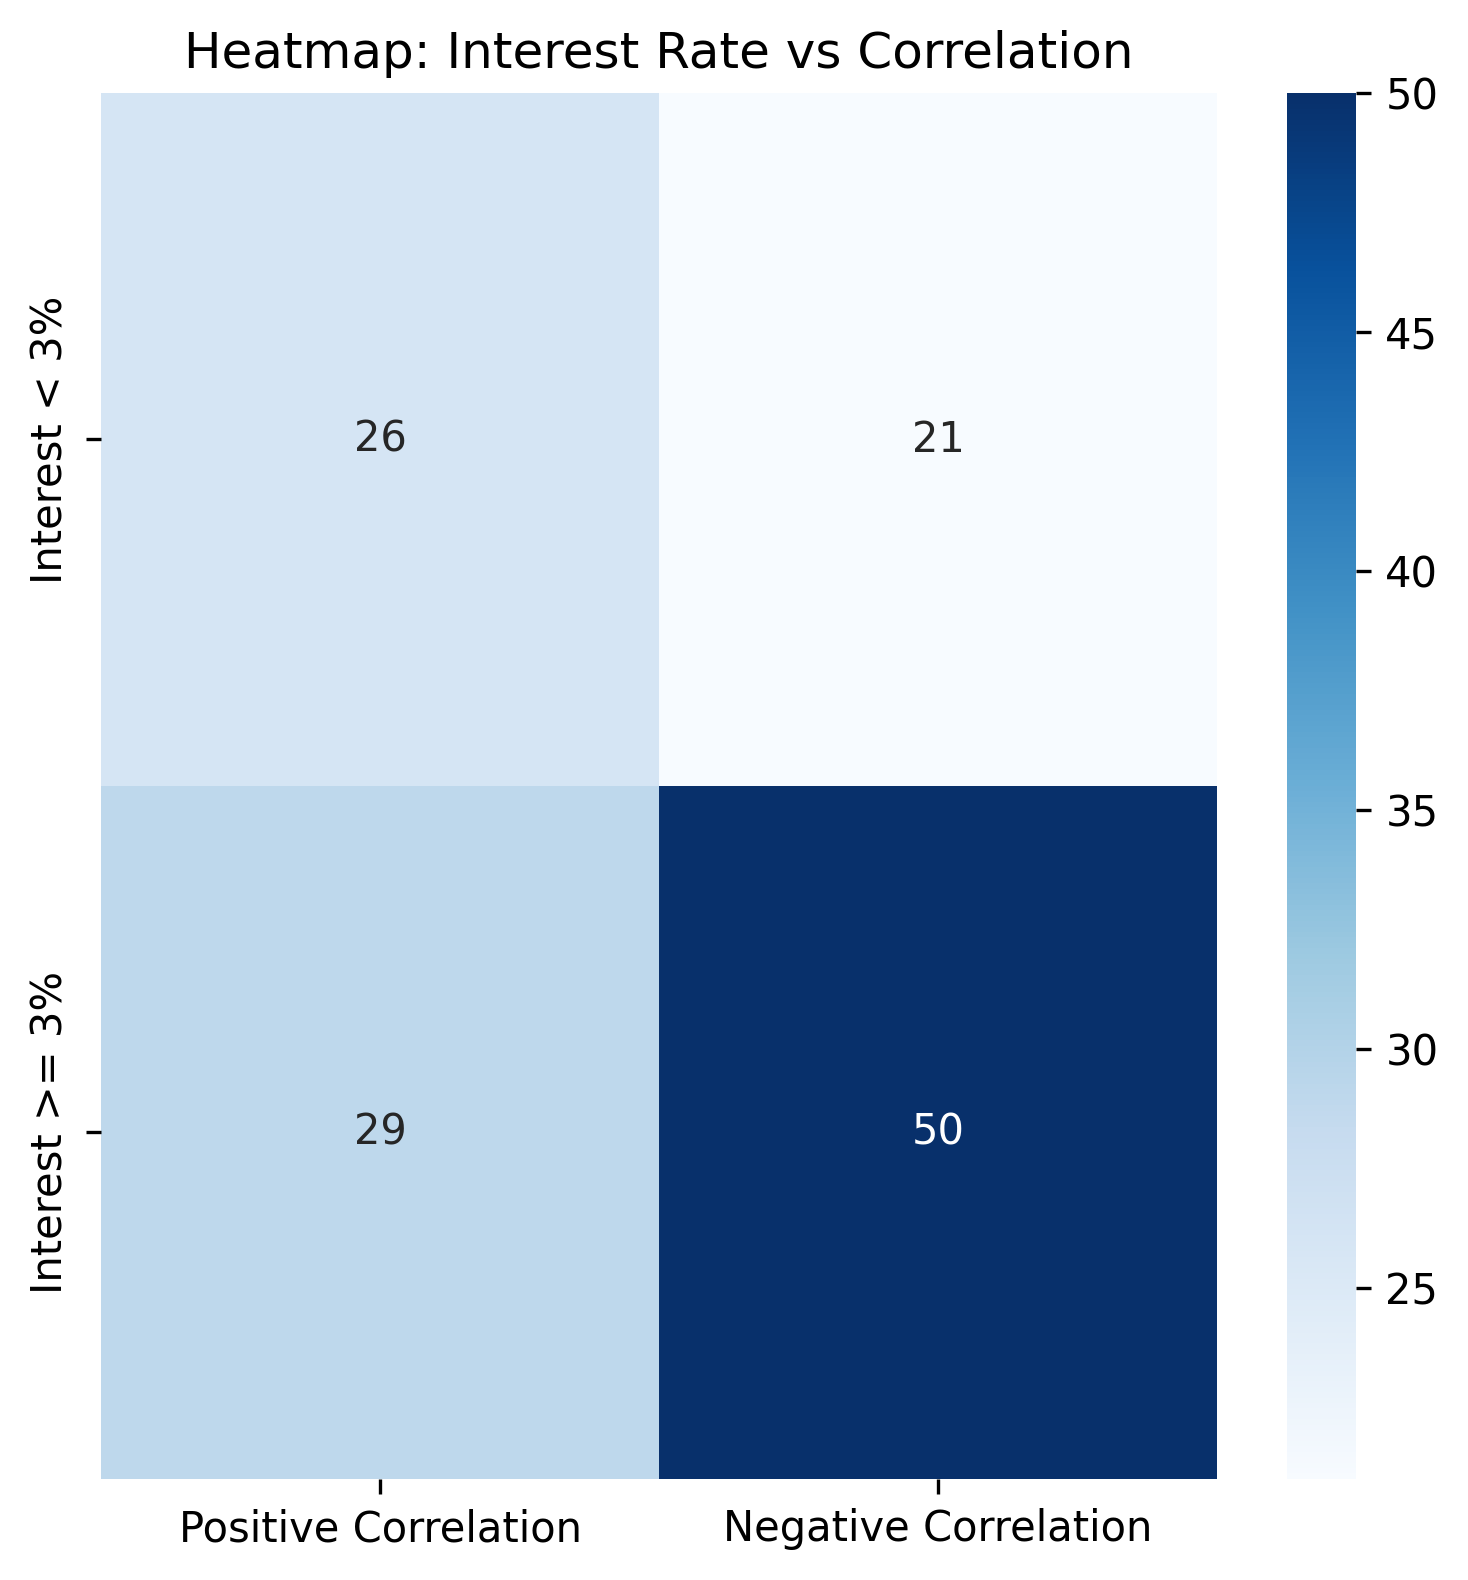
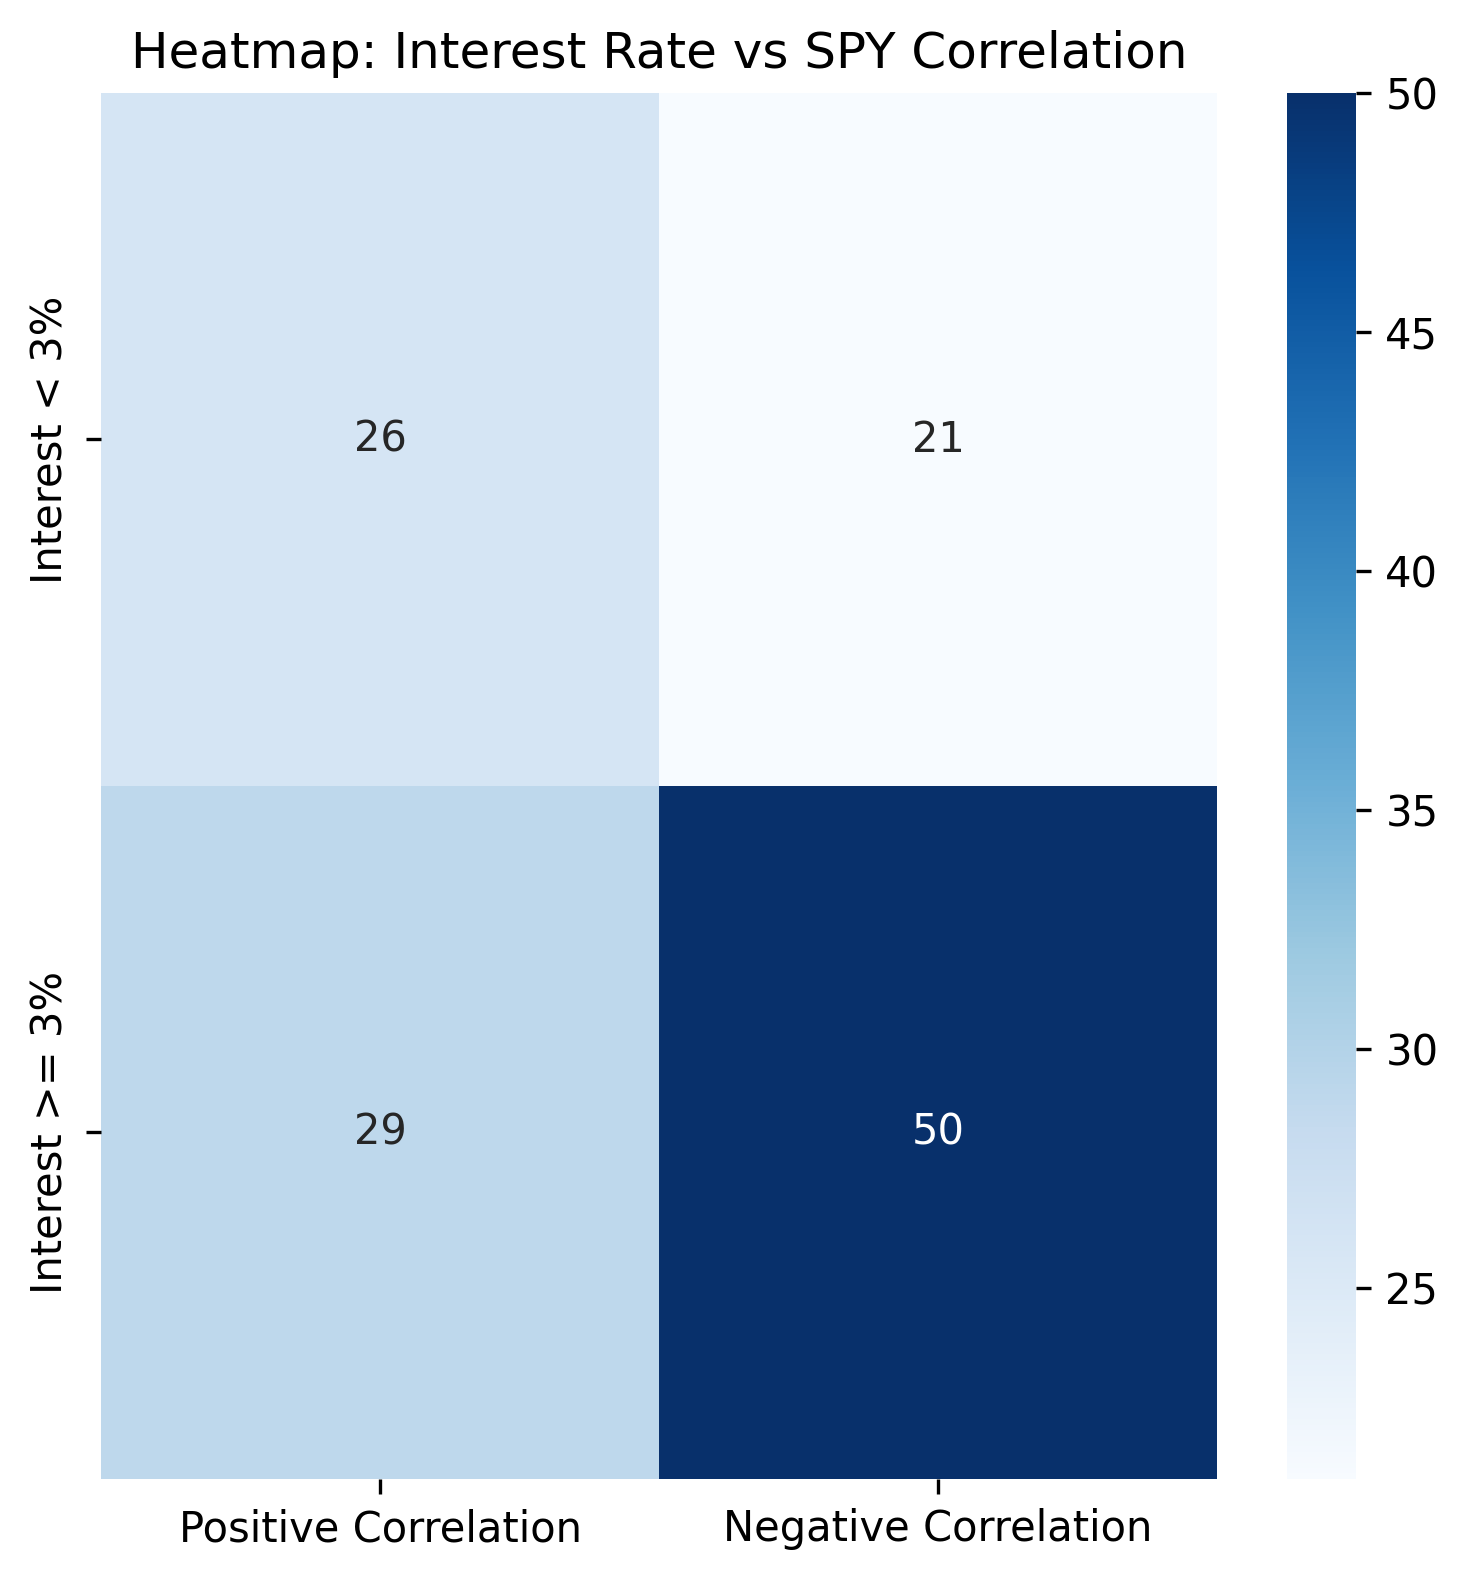
[TNX][SPY][Plot] add notebook version with supporting plot and study

Changed region(s): [[0.092, 0.0, 0.797, 0.062]]

diff --git a/src/spytnxstudy52w.py b/src/spytnxstudy52w.py
@@ -95,7 +95,7 @@ def plot_heatmap(three_month_data, correlation, save_path="plot/heatmap.png"):
     plt.figure(figsize=(6, 6))
     sns.heatmap(heatmap_data, annot=True, fmt="d", cmap="Blues",
                 xticklabels=["Positive Correlation", "Negative Correlation"], yticklabels=labels)
-    plt.title("Heatmap: Interest Rate vs Correlation")
+    plt.title("Heatmap: Interest Rate vs SPY Correlation")
 
     # Save and show the plot
     plt.savefig(save_path, dpi=300, bbox_inches="tight")
